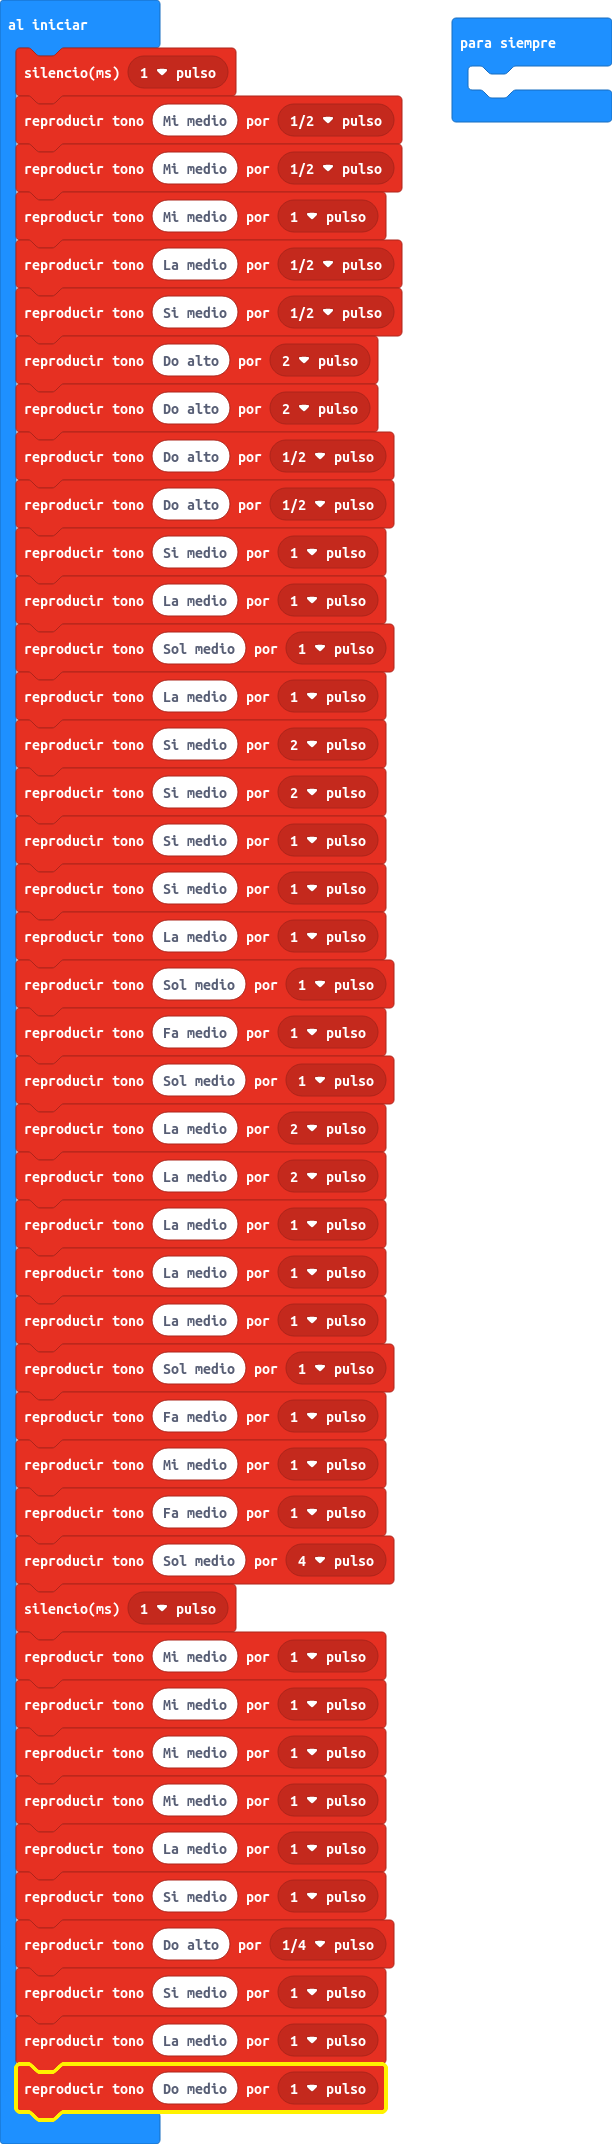
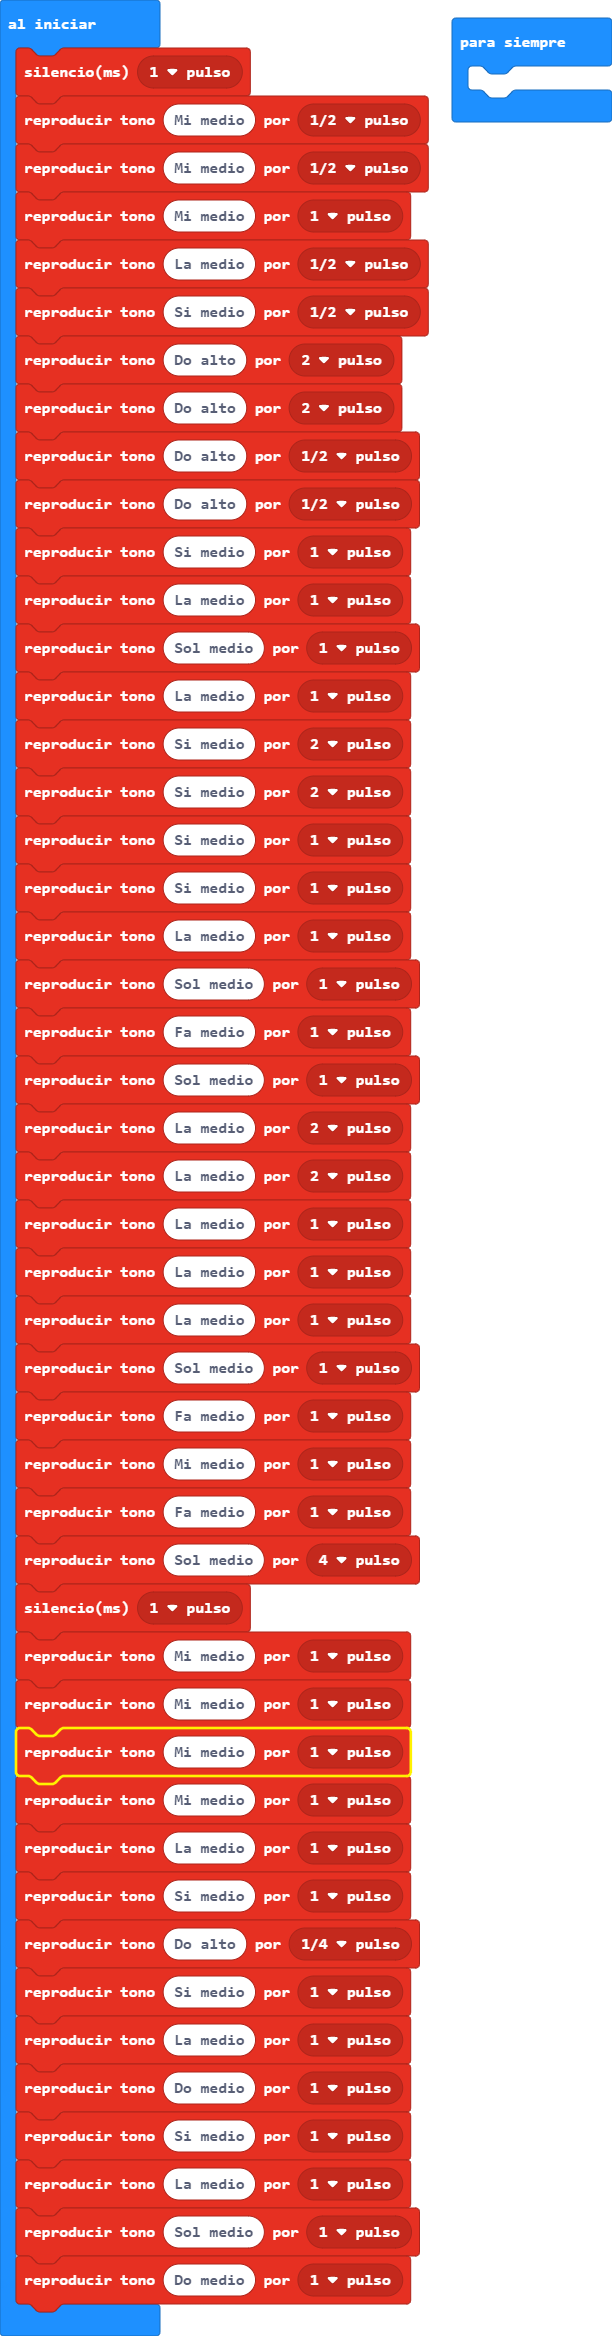
Actualizar main.blocks, main.ts

diff --git a/main.ts b/main.ts
@@ -41,6 +41,10 @@ music.playTone(523, music.beat(BeatFraction.Quarter))
 music.playTone(494, music.beat(BeatFraction.Whole))
 music.playTone(440, music.beat(BeatFraction.Whole))
 music.playTone(262, music.beat(BeatFraction.Whole))
+music.playTone(494, music.beat(BeatFraction.Whole))
+music.playTone(440, music.beat(BeatFraction.Whole))
+music.playTone(392, music.beat(BeatFraction.Whole))
+music.playTone(262, music.beat(BeatFraction.Whole))
 basic.forever(function () {
 	
 })
